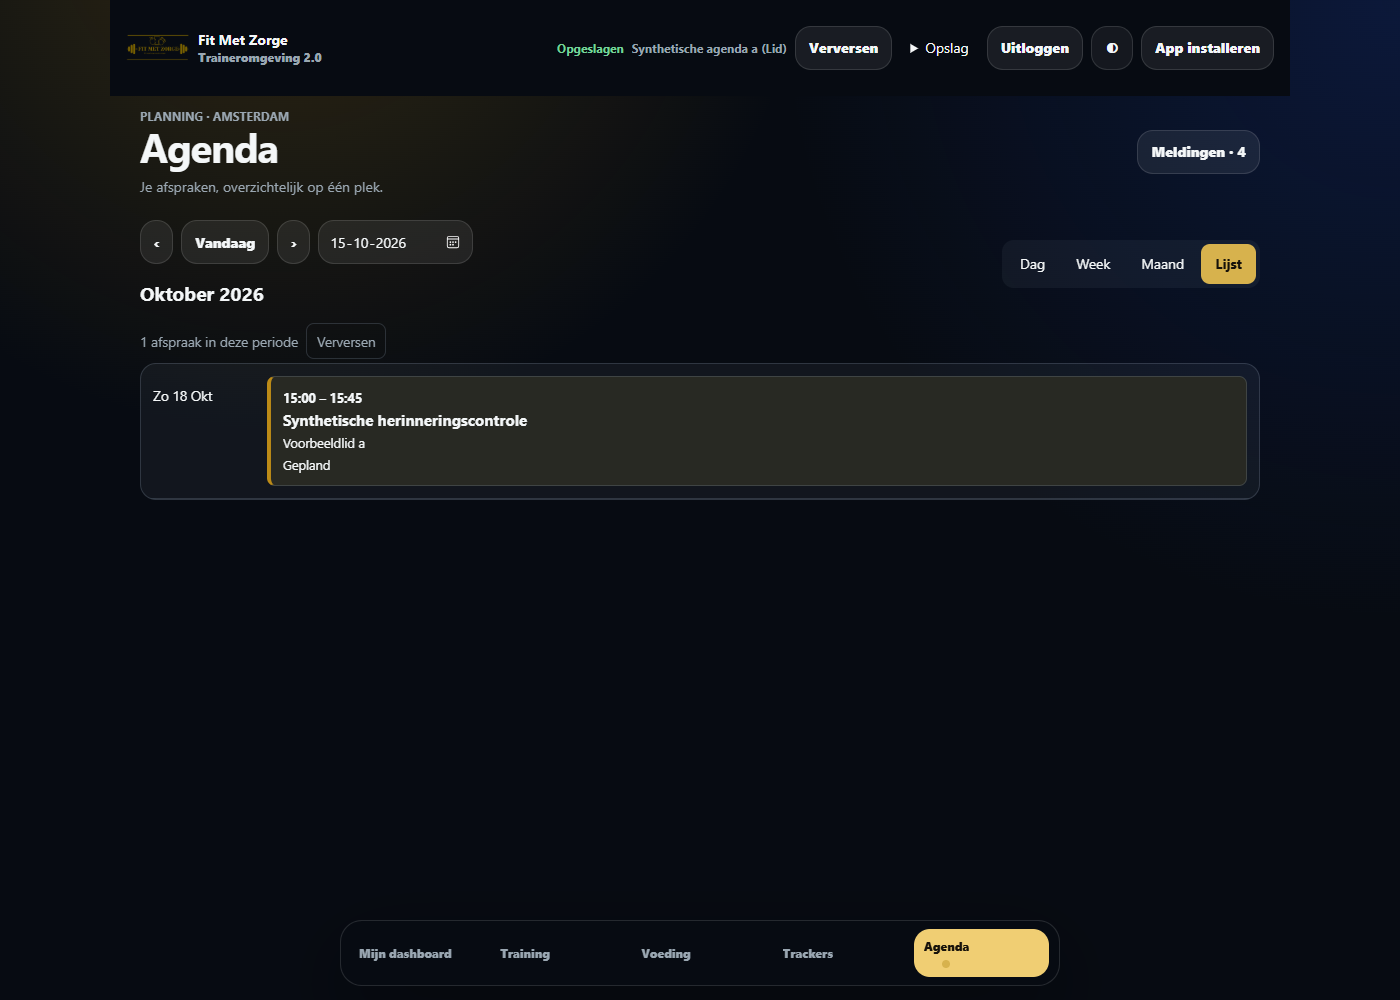
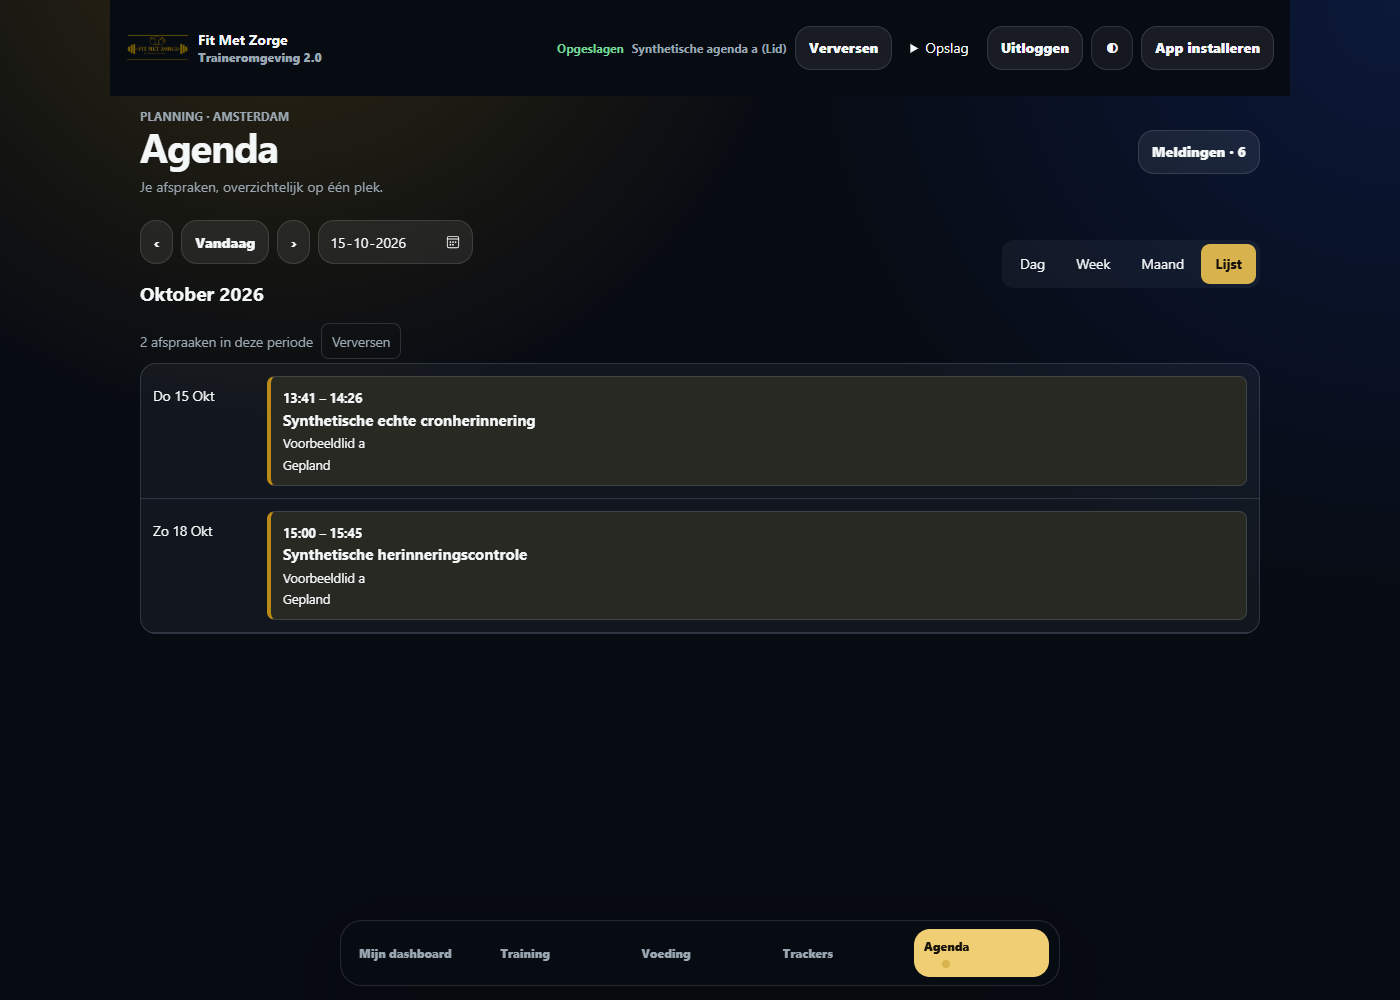
Record final APPFMZ agenda publication and unchanged customer data

diff --git a/docs/APPFMZ_AGENDA_20261015.md b/docs/APPFMZ_AGENDA_20261015.md
@@ -2,7 +2,7 @@
 
 Scope: uitsluitend `Yourizorge/fitmetzorge`, `appfmz.nl`, productieproject `hgoygcviutmynaihcvpd`. Baseline `ac497672f9c5d2877cd283c856c9467a89c02e44`. Werkbranch `codex/agenda-reminders-20261015`.
 
-**Status: live gepubliceerd en gecontroleerd; laatste conceptherstel wordt afgerond.** Eerste runtimecommit `c0a2fcbbed7f20785ab2f3c488add1af0ba66377`, eerste publicatie `42ce0e0ecaca0b503ee9c8f57a3d94d43c815959`. De owner heeft deze agenda-/meldingenrelease opgedragen, inclusief noodzakelijke minimale additieve backendvoorzieningen. Er wordt geen betaalde dienst geactiveerd. De eerdere trainer-/PWA-release is door de owner geaccepteerd; dat staat afzonderlijk in het bijbehorende rapport.
+**Status: PASS — gepubliceerd op appfmz.nl en live gecontroleerd.** Definitieve runtimecommit `42d42eb7c22c23493473b600e02d2455e56d8dae`; [geslaagde publicatie](https://github.com/Yourizorge/fitmetzorge/actions/runs/38727708099). De afrondende documentatiecommit wijzigt geen runtimebestanden. Eerste implementatiecommit `c0a2fcbbed7f20785ab2f3c488add1af0ba66377`. De owner heeft deze agenda-/meldingenrelease opgedragen, inclusief noodzakelijke minimale additieve backendvoorzieningen. Er is geen betaalde dienst geactiveerd. De eerdere trainer-/PWA-release is door de owner geaccepteerd; dat staat afzonderlijk in het bijbehorende rapport. Fysieke iPhone-pushontvangst en owneracceptatie van deze agenda-uitbreiding staan nog open.
 
 ## Inventaris en wijzigingen
 
@@ -48,11 +48,15 @@ Een extra regressie reproduceerde na de eerste publicatie een randgeval: een voo
 
 Na dit herstel: 5/5 gerichte tests PASS (nieuwe concept-/antwoordverliesregressie, beide agenda-browserproeven, beide push-/workerproeven). De nieuwe regressie faalde vóór de correctie en slaagt erna. Hiervoor is geen aanvullende databasewijziging gedaan.
 
+De definitieve runtime is daarna opnieuw live gecontroleerd: alle 53 bestanden gelijk aan commit `42d42eb7c22c23493473b600e02d2455e56d8dae`, beide rollen op 390/1400px zonder fouten. Live screenshots met uitsluitend eigen synthetische gegevens: [trainer telefoon](examples/agenda-20261015/live-trainer-390.png), [trainer laptop](examples/agenda-20261015/live-trainer-1400.png), [lid telefoon](examples/agenda-20261015/live-member-390.png), [lid laptop](examples/agenda-20261015/live-member-1400.png).
+
 ## Productiebackend
 
[1 lines of base64/hex data omitted]
 
 `agenda-reminders` is ACTIVE versie 1. De eigen cron-bearer en VAPID-sleutels zijn ingesteld; push is technisch beschikbaar, maar staat per gebruiker uit totdat die bewust inschakelt. Cron `appfmz-agenda-reminders` draait iedere minuut; de gecontroleerde runs zijn geslaagd. `invite-client` blijft ACTIVE versie 7, JWT-verificatie aan, bestaand deploytijdstip en source ongewijzigd.
+
+Definitief reproduceerbaar bewijs: [migrationlijst](examples/agenda-20261015/migration-list.json), [lege dry-run](examples/agenda-20261015/migration-dry-run.json), [RLS/Cron/opruimstatus](examples/agenda-20261015/production-status.json). De zes nieuwe private tabellen hebben RLS; anon kan de read-RPC niet uitvoeren, gewone gebruikers kunnen de worker niet uitvoeren of de berichtentabel direct lezen.
 
 De security-advisor heeft geen ERROR gevonden. RLS-zonder-policy is bij de private tabellen bewust deny-by-default: alleen gecontroleerde RPC’s hebben toegang. Er staan WARN-meldingen voor de standaardregistratie van de niet-verplaatsbare `pg_net`-extensie in public ([uitleg](https://supabase.com/docs/guides/database/database-linter?lint=0014_extension_in_public)) en de bestaande uitgeschakelde leaked-password protection ([uitleg](https://supabase.com/docs/guides/auth/password-security#password-strength-and-leaked-password-protection)). Deze release wijzigt geen Auth-instellingen of abonnement; `net` is geen nieuw publiek API-schema.
 
@@ -69,10 +73,19 @@ Een nieuw versleuteld checkpoint is gemaakt buiten Git/OneDrive, met alle 14 app
 
 De dry-run vóór toepassing noemt uitsluitend de bovenstaande nieuwe migration, met lege seed-/roleslijsten. Geen oude migration uitvoeren, geen repair/reset. Na de transactionele toevoeging volgen privésleutels, uitsluitend `agenda-reminders`, eigen synthetische PostgREST/Auth-proeven, Cron-controle, gegevensbehoud, frontendpublicatie en bytevergelijking. Geen automatische klantpush tijdens tests.
 
+Deze volgorde is uitgevoerd. De vier eigen testaccounts zijn op marker/e-mailadres gecontroleerd en uitsluitend hun afspraken, voorkeuren, berichten, verzoeken, profielen en Auth-accounts zijn verwijderd. [Gegevensbehoud](examples/agenda-20261015/data-preservation.json) vergelijkt het moment direct vóór de migration met na opruimen: alle 18 bestaande tabellen exact dezelfde aantallen en inhoudshashes, alle 41 oorspronkelijke functies dezelfde definitiehash, alle drie private Storage-bestanden byte-identiek aan het versleutelde checkpoint. Dit omvat bestaande memberdata, afspraken, financiële afspraken, facturen, boekingen, audit, Auth en PDF’s. Staging, website en JARVIS/AI zijn niet gewijzigd. APPFMZ blijft beschikbaar; geen onderhoudsscherm actief.
+
 Terugval: bij een SQL-fout rolt de transactie terug. Na een geslaagde toevoeging blijven tabellen en bestaande gegevens staan. Zet bij een workerprobleem `fmz_agenda.config.enabled=false` en de specifieke Cronjob uit; in-app agenda/administratie blijven bruikbaar. Bij een agenda-RPC-probleem geen schrijfknoppen vrijgeven, invoer behouden en gerichte correctie uitvoeren. Geen oude onveilige rechten herstellen, geen historie overschrijven en geen oude frontend met automatische agenda-financemutaties opnieuw vrijgeven.
 
 ## Nog fysiek te bevestigen
 
-De owner heeft de geïnstalleerde APPFMZ op zijn eigen **iPhone** gekozen. Technische/browserresultaten bewijzen nog geen ontvangst op dat toestel. Na publicatie: open Agenda, maak een eigen testafspraak zonder prijs, controleer maandtelling/aanwezigheid, schakel meldingen bewust in en kies **Testmelding op mijn toestel**. Controleer de melding met de app op de achtergrond en open de afspraak via de melding. Verplaats/annuleer daarna de testafspraak en controleer het berichtenoverzicht.
+De owner heeft de geïnstalleerde APPFMZ op zijn eigen **iPhone** gekozen. Technische/browserresultaten bewijzen nog geen ontvangst op dat toestel.
+
+1. Open FitMetZorge vanaf het beginscherm. Bekijk Agenda in Dag/Week/Maand/Lijst en open een bestaande afspraak.
+2. Bekijk bij een lid **Afspraken deze maand**, wissel maand en tik een aantal open. Registreer uitsluitend werkelijke aanwezigheid; dit maakt geen financiële handeling.
+3. Ga naar **Agenda → Meldingen → Meldingen inschakelen**, sta meldingen toe en tik **Testmelding op mijn toestel**. Zet de app op de achtergrond en wacht ongeveer één minuut. Controleer dat de tekst geen klantgegevens bevat.
+4. Tik de testmelding aan: die opent na eventuele login het berichtenoverzicht. Een echte afspraakmelding opent de betreffende toegestane afspraak. Controleer vervolgens een gekozen voorafherinnering bij een eigen toekomstige afspraak; de trainer kiest zijn eigen herinnering, het lid apart de zijne.
+
+Geen bestaande klant heeft een testpush of e-mail gekregen. De sender-autorisatie, versleuteling, providerfoutafhandeling en serverwachtrij zijn technisch getest; de Apple-provideraflevering en zichtbare ontvangst op de fysieke iPhone worden pas als geslaagd aangemerkt na deze ownerproef.
 
 Technische bronnen: [Supabase scheduling](https://supabase.com/docs/guides/functions/schedule-functions), [WebKit Web Push](https://webkit.org/blog/13878/web-push-for-web-apps-on-ios-and-ipados/), [Web Push library](https://github.com/web-push-libs/web-push). Changelog gecontroleerd; de aangekondigde verwijdering van oude TLS-ciphers vereist geen wijziging voor de geteste moderne browsers.
